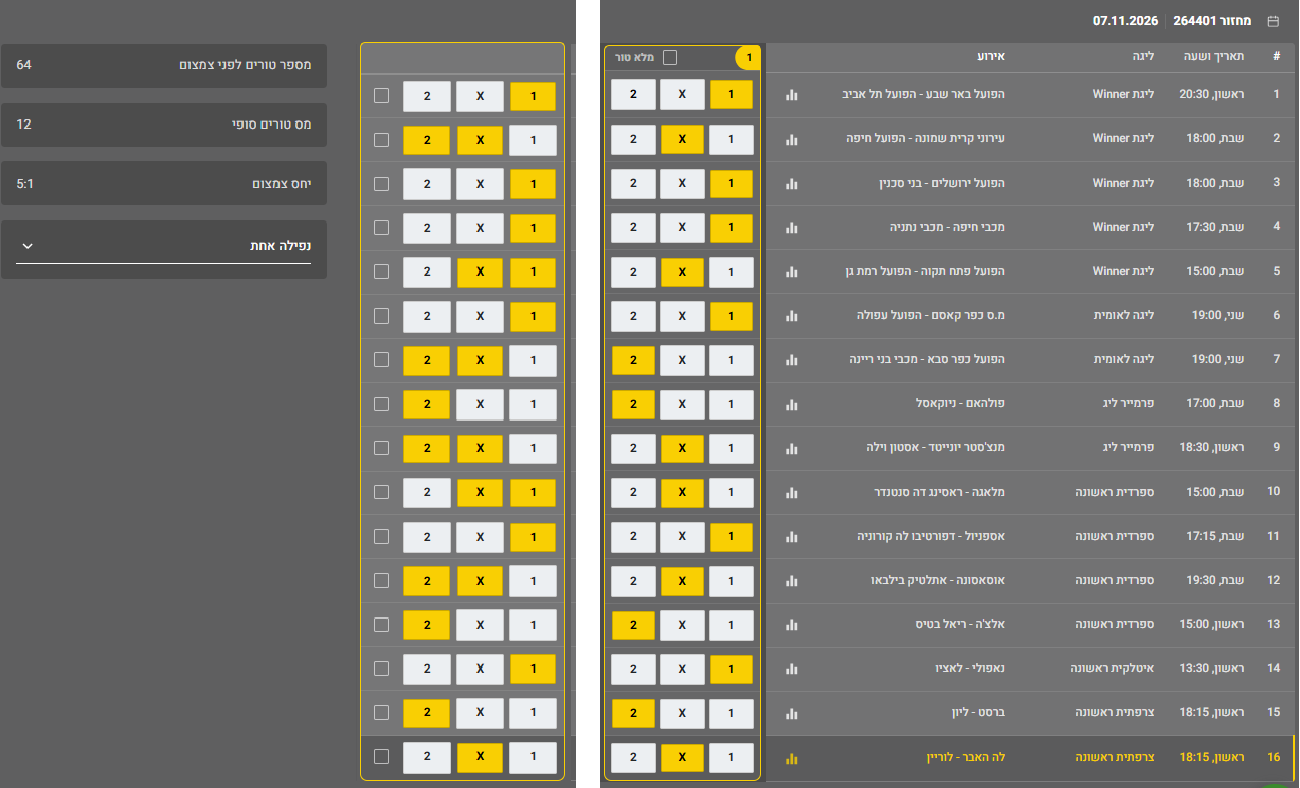
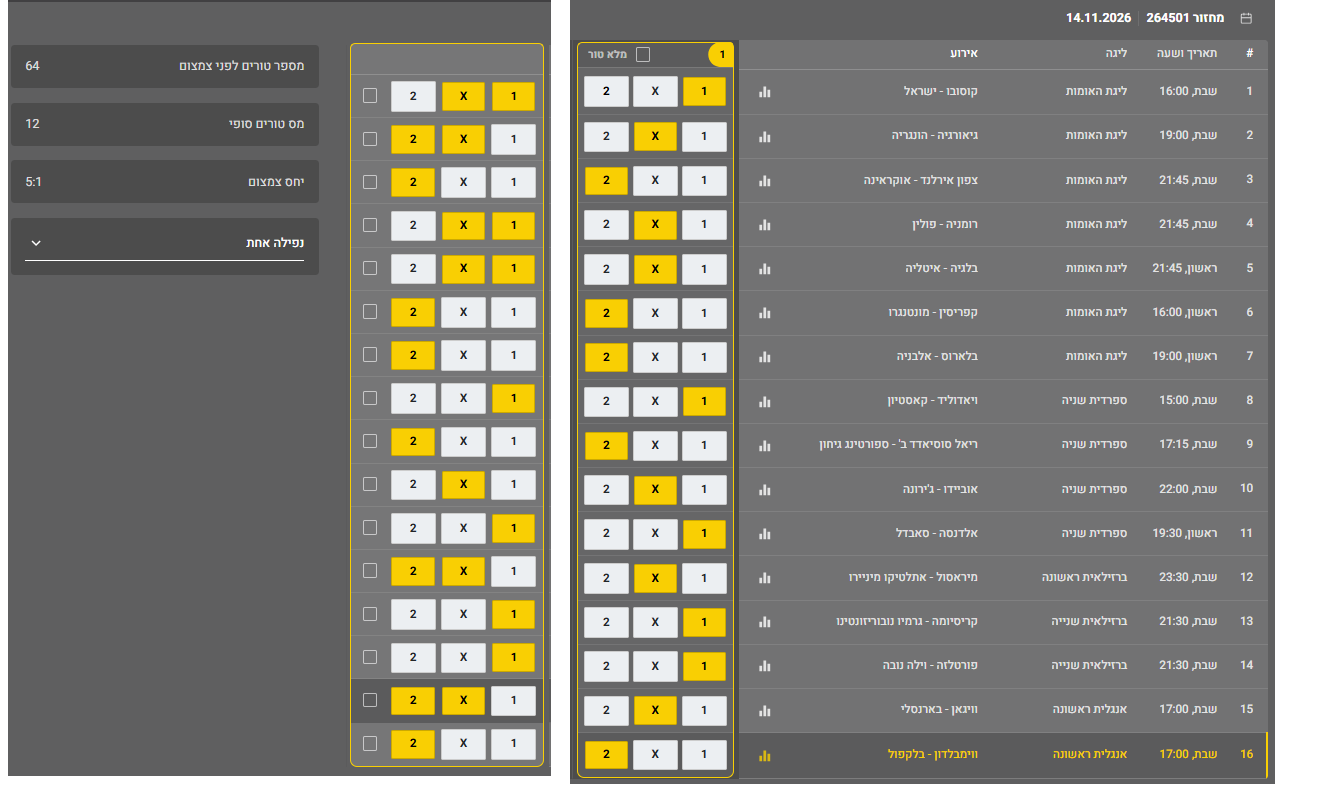
Update winwin slides with international fixtures round from games.txt

diff --git a/winwin/index.html b/winwin/index.html
@@ -141,114 +141,114 @@
 
         <section class="game-slide">
           <div class="game-title">משחק 1</div>
-          <div class="game-matchup">הפועל באר שבע - הפועל תל אביב</div>
-          <div class="game-body">באר שבע בדרך כלל חזקה משמעותית בבית ומחזיקה בסגל עמוק ואיכותי יותר. הפועל ת"א נוטה להתקשות מול קבוצות הצמרת, במיוחד במשחקי חוץ. פערי האיכות והמומנטום נוטים בבירור לצד המקומיים.</div>
-          <div class="game-recommendation">ההמלצה : 1</div>
+          <div class="game-matchup">קוסובו - ישראל</div>
+          <div class="game-body">קוסובו נהנית מיתרון ביתיות משמעותי ומציגה בדרך כלל יכולת טובה מול יריבות ברמתה. ישראל בעלת איכות התקפית גבוהה יותר אך מתקשה לעיתים במשחקי חוץ. לכן הכיסוי הרחב ביותר הוא על ניצחון ביתי או תיקו.</div>
+          <div class="game-recommendation">ההמלצה : 1X</div>
         </section>
 
         <section class="game-slide">
           <div class="game-title">משחק 2</div>
-          <div class="game-matchup">עירוני קרית שמונה - הפועל חיפה</div>
-          <div class="game-body">זהו משחק שקול יחסית בין שתי קבוצות שממעטות להכריע משחקים בקלות. הפועל חיפה נראית מעט יציבה יותר, אך לקרית שמונה יש יתרון ביתיות. הסבירות לתיקו גבוהה ולכן כדאי גיבוי.</div>
+          <div class="game-matchup">גיאורגיה - הונגריה</div>
+          <div class="game-body">גיאורגיה חזקה מאוד בביתה ומקבלת דחיפה גדולה מהקהל המקומי. הונגריה מנוסה יותר במסגרות בינלאומיות ומסוגלת להוציא תוצאה גם בחוץ. לכן עדיף לכסות תיקו או ניצחון הונגרי.</div>
           <div class="game-recommendation">ההמלצה : X2</div>
         </section>
 
         <section class="game-slide">
           <div class="game-title">משחק 3</div>
-          <div class="game-matchup">הפועל ירושלים - בני סכנין</div>
-          <div class="game-body">הפועל ירושלים נחשבת לקבוצה ביתית עיקשת מאוד. בני סכנין מתקשה לעיתים לייצר שערים במשחקי חוץ. אם ירושלים תכתיב את הקצב, הסיכוי שלה להשיג ניצחון גבוה יחסית.</div>
-          <div class="game-recommendation">ההמלצה : 1</div>
+          <div class="game-matchup">צפון אירלנד - אוקראינה</div>
+          <div class="game-body">לאוקראינה סגל איכותי ומגוון יותר כמעט בכל עמדה. צפון אירלנד נבחרת לוחמת אך מוגבלת התקפית יחסית. פער האיכות מצדיק סימון חוץ.</div>
+          <div class="game-recommendation">ההמלצה : 2</div>
         </section>
 
         <section class="game-slide">
           <div class="game-title">משחק 4</div>
-          <div class="game-matchup">מכבי חיפה - מכבי נתניה</div>
-          <div class="game-body">מכבי חיפה חזקה משמעותית בסמי עופר ומחזיקה ביתרון איכות כמעט בכל עמדה. נתניה מסוגלת להיות מסוכנת, אך לאורך 90 דקות קשה לראות אותה שולטת במשחק כזה.</div>
-          <div class="game-recommendation">ההמלצה : 1</div>
+          <div class="game-matchup">רומניה - פולין</div>
+          <div class="game-body">רומניה בדרך כלל קשה מאוד בביתה וממעטת להפסיד לקבוצות בדרג דומה. פולין בעלת שחקנים איכותיים יותר אך אינה תמיד יציבה בחוץ. לכן ההגנה הנכונה היא בית או תיקו.</div>
+          <div class="game-recommendation">ההמלצה : 1X</div>
         </section>
 
         <section class="game-slide">
           <div class="game-title">משחק 5</div>
-          <div class="game-matchup">הפועל פתח תקוה - הפועל רמת גן</div>
-          <div class="game-body">משחק טיפוסי של הליגה הלאומית שבו ההפרשים קטנים מאוד. פתח תקוה נהנית מיתרון מגרש ביתי, אך רמת גן קבוצה מספיק איכותית כדי לחלץ נקודות.</div>
+          <div class="game-matchup">בלגיה - איטליה</div>
+          <div class="game-body">מפגש בין שתי נבחרות בכירות שבו כל תוצאה אפשרית. לבלגיה יתרון ביתיות אך איטליה מנוסה וקשוחה טקטית. לכן מומלץ לכסות ניצחון בלגי או תיקו.</div>
           <div class="game-recommendation">ההמלצה : 1X</div>
         </section>
 
         <section class="game-slide">
           <div class="game-title">משחק 6</div>
-          <div class="game-matchup">מ.ס כפר קאסם - הפועל עפולה</div>
-          <div class="game-body">כפר קאסם בדרך כלל מציגה יכולת טובה יותר בביתה. עפולה מתקשה לא פעם במשחקי חוץ מול יריבות מאורגנות. יתרון הביתיות צפוי להיות גורם משמעותי.</div>
-          <div class="game-recommendation">ההמלצה : 1</div>
-        </section>
-
-        <section class="game-slide">
-          <div class="game-title">משחק 7</div>
-          <div class="game-matchup">הפועל כפר סבא - מכבי בני ריינה</div>
-          <div class="game-body">ריינה נראית איכותית ומאוזנת יותר על הנייר. מנגד, כפר סבא מסוגלת לסחוט תיקו במשחקים צמודים ולכן לא כדאי לסמן כאן ניצחון חוץ בודד.</div>
-          <div class="game-recommendation">ההמלצה : X2</div>
-        </section>
-
-        <section class="game-slide">
-          <div class="game-title">משחק 8</div>
-          <div class="game-matchup">פולהאם - ניוקאסל</div>
-          <div class="game-body">ניוקאסל מחזיקה סגל עמוק יותר ועוצמה התקפית גבוהה. פולהאם בבית תמיד מסוכנת ולכן המשחק לא חד צדדי, אך האורחים מגיעים עם יתרון איכות ברור.</div>
+          <div class="game-matchup">קפריסין - מונטנגרו</div>
+          <div class="game-body">מונטנגרו מחזיקה בסגל איכותי יותר ובשחקנים בעלי ניסיון גבוה יותר. קפריסין מתקשה מול יריבות פיזיות ומאורגנות. הסימון המתבקש הוא ניצחון חוץ.</div>
           <div class="game-recommendation">ההמלצה : 2</div>
         </section>
 
         <section class="game-slide">
+          <div class="game-title">משחק 7</div>
+          <div class="game-matchup">בלארוס - אלבניה</div>
+          <div class="game-body">אלבניה נמצאת בשנים האחרונות במגמת שיפור ברורה ומציגה משמעת טקטית גבוהה. בלארוס מתקשה לייצר יציבות מול יריבות מאורגנות. לכן הבחירה היא ניצחון אלבני.</div>
+          <div class="game-recommendation">ההמלצה : 2</div>
+        </section>
+
+        <section class="game-slide">
+          <div class="game-title">משחק 8</div>
+          <div class="game-matchup">ויאדוליד - קאסטיון</div>
+          <div class="game-body">ויאדוליד בדרך כלל חזקה בביתה ומכוונת לצמרת. קאסטיון נוטה לאבד נקודות במשחקי חוץ קשים. יתרון הביתיות מטה את הכף בבירור.</div>
+          <div class="game-recommendation">ההמלצה : 1</div>
+        </section>
+
+        <section class="game-slide">
           <div class="game-title">משחק 9</div>
-          <div class="game-matchup">מנצ'סטר יונייטד - אסטון וילה</div>
-          <div class="game-body">זה אחד המשחקים המסוכנים ביותר במחזור. יונייטד אמנם מארחת, אך וילה הוכיחה בשנים האחרונות שהיא מסוגלת להתמודד מול כל קבוצה באנגליה. התיקו או ניצחון וילה נראים מכוסים היטב בכפול.</div>
-          <div class="game-recommendation">ההמלצה : X2</div>
+          <div class="game-matchup">ריאל סוסיאדד ב' - ספורטינג גיחון</div>
+          <div class="game-body">קבוצת המילואים של סוסיאדד מוכשרת אך חסרה ניסיון. גיחון בדרך כלל יציבה יותר ויודעת להתמודד היטב עם משחקים מסוג זה. לכן יש עדיפות לאורחים.</div>
+          <div class="game-recommendation">ההמלצה : 2</div>
         </section>
 
         <section class="game-slide">
           <div class="game-title">משחק 10</div>
-          <div class="game-matchup">מלאגה - ראסינג סנטנדר</div>
-          <div class="game-body">שתי קבוצות שנוטות להיות תחרותיות מאוד ולקיים משחקים צמודים. למלאגה יתרון ביתיות, אך סנטנדר מסוגלת לצאת עם נקודות. לכן כדאי להימנע מהכרעה חד משמעית.</div>
-          <div class="game-recommendation">ההמלצה : 1X</div>
+          <div class="game-matchup">אוביידו - ג'ירונה</div>
+          <div class="game-body">שתי קבוצות שקולות יחסית עם יכולת טקטית טובה. משחקים ביניהן נוטים להיות צמודים וזהירים. התיקו נראה תוצאה בעלת ערך.</div>
+          <div class="game-recommendation">ההמלצה : X</div>
         </section>
 
         <section class="game-slide">
           <div class="game-title">משחק 11</div>
-          <div class="game-matchup">אספניול - דפורטיבו לה קורוניה</div>
-          <div class="game-body">אספניול בדרך כלל חזקה יותר בביתה ומציגה איכות גבוהה יותר. דפורטיבו מסוגלת להקשות, אך לאורך זמן היתרון של המארחת בולט.</div>
+          <div class="game-matchup">אלדנסה - סאבדל</div>
+          <div class="game-body">אלדנסה נהנית מיתרון ביתי משמעותי ובדרך כלל משיגה את רוב נקודותיה בבית. סאבדל פחות מרשימה במשחקי חוץ. לכן הבחירה היא ניצחון ביתי.</div>
           <div class="game-recommendation">ההמלצה : 1</div>
         </section>
 
         <section class="game-slide">
           <div class="game-title">משחק 12</div>
-          <div class="game-matchup">אוסאסונה - אתלטיק בילבאו</div>
-          <div class="game-body">מדובר במפגש מסורתי קשה מאוד לחיזוי. בילבאו איכותית יותר, אך אוסאסונה במגרשה הביתי מסוגלת לקחת נקודות מול כל יריבה. התיקו הוא תוצאה ריאלית מאוד.</div>
+          <div class="game-matchup">מיראסול - אתלטיקו מיניירו</div>
+          <div class="game-body">מיראסול קבוצה ביתית חזקה אך מיניירו עדיפה מבחינת איכות הסגל. בליגה הברזילאית משחקי חוץ אינם פשוטים גם לקבוצות הבכירות. לכן תיקו או ניצחון חוץ הם הכיסוי הנכון.</div>
           <div class="game-recommendation">ההמלצה : X2</div>
         </section>
 
         <section class="game-slide">
           <div class="game-title">משחק 13</div>
-          <div class="game-matchup">אלצ'ה - ריאל בטיס</div>
-          <div class="game-body">בטיס מחזיקה יותר איכות וניסיון במשחקים מהסוג הזה. אלצ'ה בבית יכולה להיות עיקשת, אך אם בטיס תציג את יכולתה הרגילה היא אמורה לנצח.</div>
-          <div class="game-recommendation">ההמלצה : 2</div>
+          <div class="game-matchup">קריסיומה - גרמיו נובוריזונטינו</div>
+          <div class="game-body">קריסיומה מציגה בדרך כלל יכולת טובה בביתה ומנצלת היטב את תנאי המגרש. נובוריזונטינו מתקשה יותר מחוץ לביתה. לכן הסימון נוטה לצד המקומי.</div>
+          <div class="game-recommendation">ההמלצה : 1</div>
         </section>
 
         <section class="game-slide">
           <div class="game-title">משחק 14</div>
-          <div class="game-matchup">נאפולי - לאציו</div>
-          <div class="game-body">נאפולי היא אחת מקבוצות הבית החזקות באיטליה ומגיעה בדרך כלל עם יתרון משמעותי במפגשים כאלה. לאציו מסוכנת, אך האיכות והעומק של נאפולי מעניקים לה יתרון.</div>
+          <div class="game-matchup">פורטלזה - וילה נובה</div>
+          <div class="game-body">פורטלזה נהנית ממגרש ביתי קשה ומסגל איכותי יותר. וילה נובה מתקשה בדרך כלל מול יריבות בכירות בחוץ. ניצחון ביתי הוא הבחירה העדיפה.</div>
           <div class="game-recommendation">ההמלצה : 1</div>
         </section>
 
         <section class="game-slide">
           <div class="game-title">משחק 15</div>
-          <div class="game-matchup">ברסט - ליון</div>
-          <div class="game-body">זהו אחד המשחקים שבהם אני פחות בטוח. ליון בעלת פוטנציאל גבוה יותר ואיכות אישית עדיפה, אך ברסט בבית היא יריבה לא פשוטה. למרות הסיכון, הכיוון הוא ניצחון חוץ.</div>
-          <div class="game-recommendation">ההמלצה : 2</div>
+          <div class="game-matchup">וויגאן - בארנסלי</div>
+          <div class="game-body">בארנסלי מעט עדיפה מקצועית אך וויגאן נוטה להיות עיקשת בביתה. מדובר במשחק מאוזן יחסית שבו חלוקת נקודות אפשרית בהחלט. לכן עדיף לכסות תיקו או חוץ.</div>
+          <div class="game-recommendation">ההמלצה : X2</div>
         </section>
 
         <section class="game-slide">
           <div class="game-title">משחק 16</div>
-          <div class="game-matchup">לה האבר - לוריין</div>
-          <div class="game-body">זה נראה כמו משחק תחתית קלאסי שבו שתי הקבוצות ירצו קודם לא להפסיד. משחקים כאלה מסתיימים לא פעם בחלוקת נקודות, אך יתרון הביתיות מעניק ללה האבר סיכוי קל לניצחון.</div>
-          <div class="game-recommendation">ההמלצה : 1X</div>
+          <div class="game-matchup">ווימבלדון - בלקפול</div>
+          <div class="game-body">בלקפול מחזיקה בסגל עמוק ומנוסה יותר. ווימבלדון מסוגלת להקשות אך פחות יציבה לאורך זמן. לכן ניתן ללכת על ניצחון חוץ.</div>
+          <div class="game-recommendation">ההמלצה : 2</div>
         </section>
 
         <section class="image-slide">
